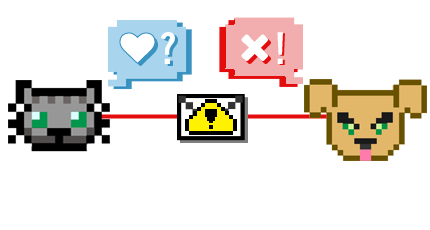
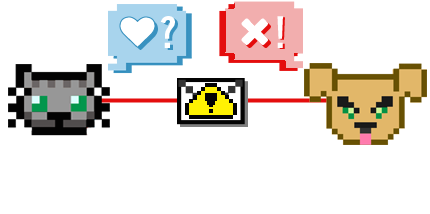
Improve auth tutorial UI

Changed region(s): [[0.0, 0.0, 0.9977, 0.7009]]

diff --git a/src/core/css/jquery.basicslider.css b/src/core/css/jquery.basicslider.css
@@ -26,23 +26,18 @@ ul.bjqs-controls.v-centered li a:hover{
 	color:#fff;
 }
 
-ol.bjqs-markers li a{
-	padding:0 6px;
+ol.bjqs-markers li a {
+	padding: 5px 8px;
+	border-radius: 5px 0 5px 5px;
 	line-height:13px;
-	background:#000;
-	color:#fff;
-	margin:0 10px;
-	font-size: 0.6em;
+	background: rgba(118, 189, 229, 0.5);
+	color: #FFF;
+	margin: 0 20px 0 0;
+	font-size: 1em;
 	text-decoration: none;
 }
 
 ol.bjqs-markers li.active-marker a,
 ol.bjqs-markers li a:hover{
-	background: #76BDE5;
-}
-
-p.bjqs-caption{
-	background: rgba(151, 206, 236, 0.8);
-	border-radius: 0 0 10px 10px;
-	color: #FFF;
+	background: rgba(118, 189, 229, 1);
 }

diff --git a/src/core/js/cryptocat.js b/src/core/js/cryptocat.js
@@ -480,7 +480,7 @@ Cryptocat.displayInfo = function(nickname) {
 				slide4: 'Without authentication, someone could be impersonating or intercepting your communications.'
 			})
 			Cryptocat.dialogBox(infoDialog, {
-				height: 410,
+				height: 420,
 				closeable: true,
 				onAppear: function() {
 					$('#authTutorial').html(authTutorial)
@@ -696,6 +696,7 @@ var bindAuthDialog = function(nickname) {
 					$('#authTutorialSlides').bjqs({
 						width: 430,
 						height: 230,
+						animduration: 250,
 						animspeed: 7000,
 						responsive: true,
 						nexttext: '>',

diff --git a/src/core/css/style.css b/src/core/css/style.css
@@ -666,7 +666,13 @@ DIALOG BOX
 }
 
 #authTutorial p {
-	max-width: 430px;
+	max-width: 410px;
+	width: 410px;
+	margin-bottom: 10px;
+	padding: 5px 10px;
+	background: #76BDE5;
+	border-radius: 0 0 5px 5px;
+	color: #FFF;
 }
 
 .authInfo {
